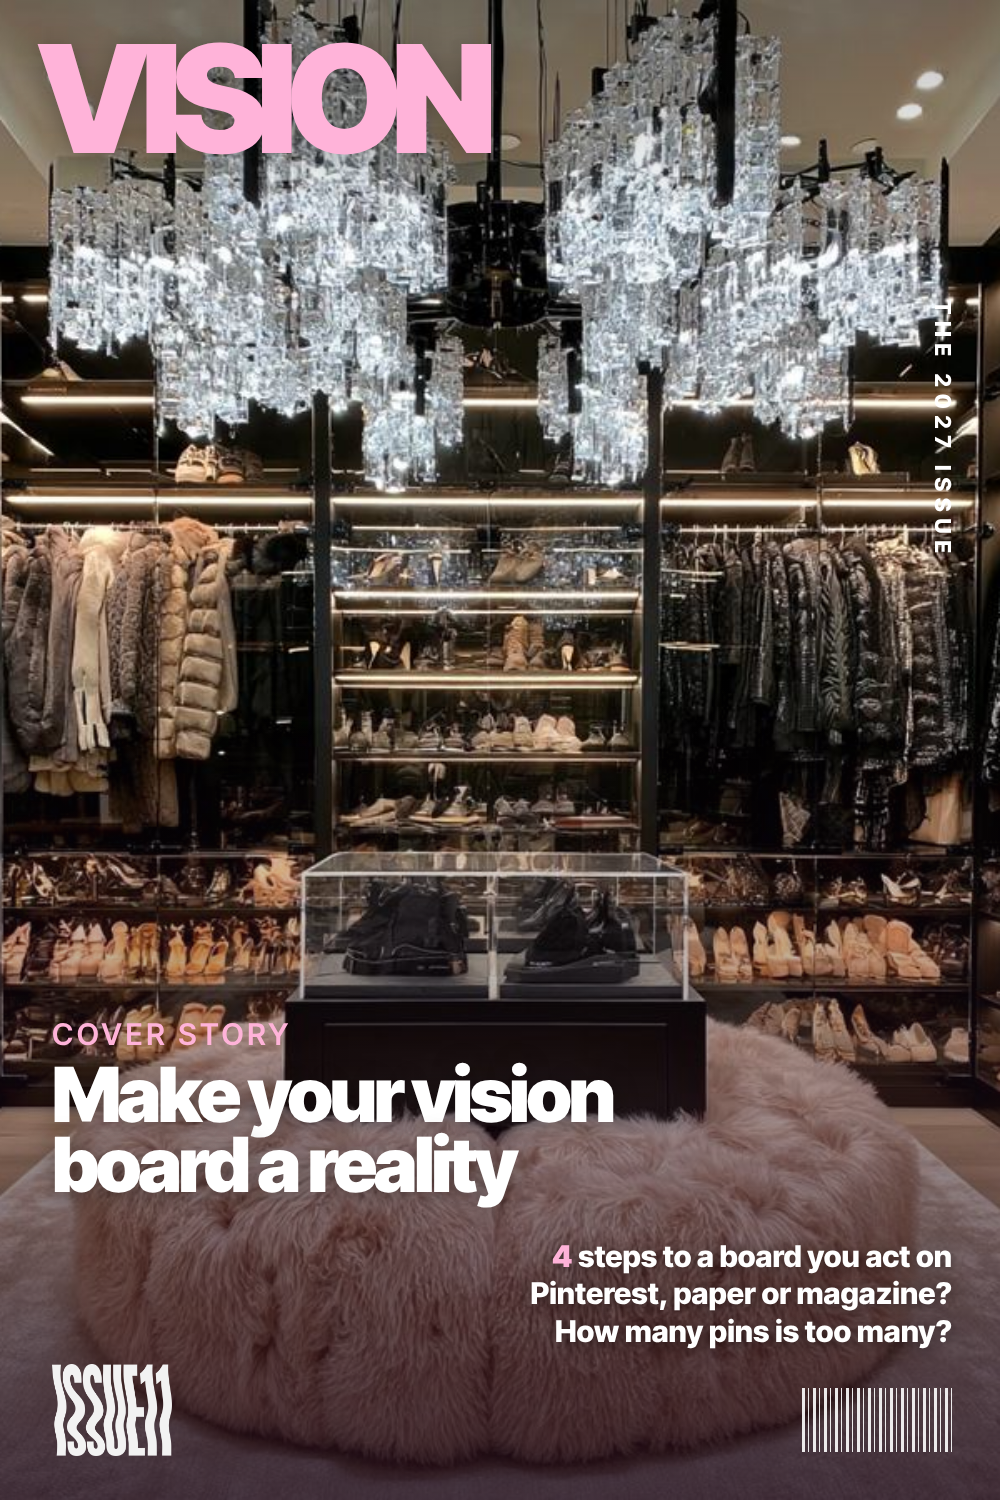
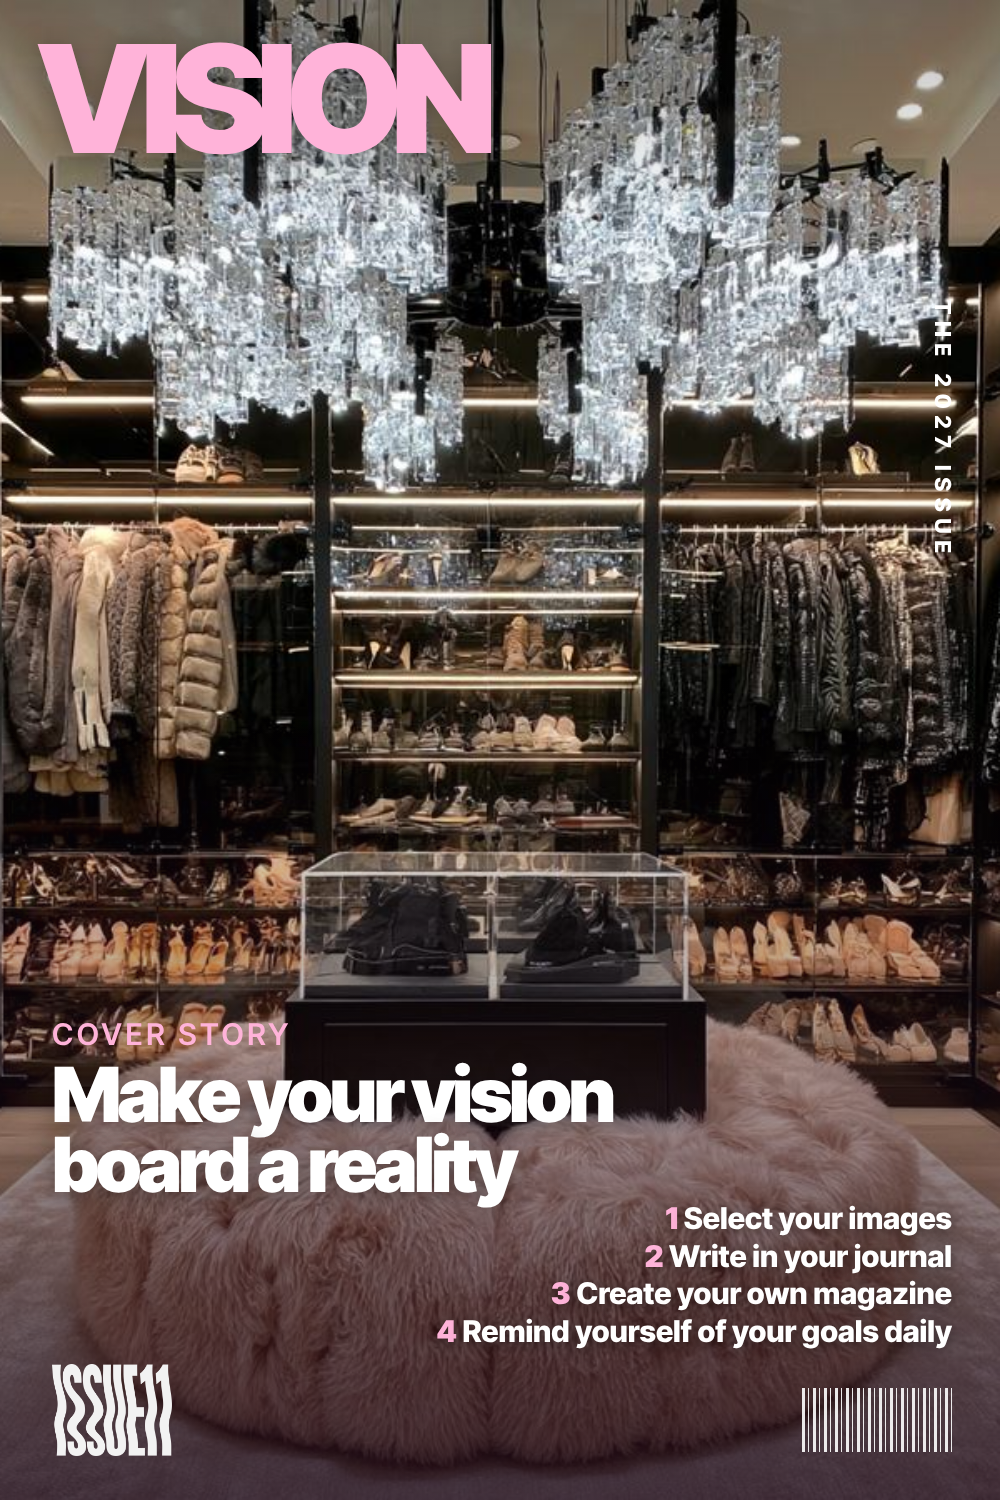
Pinterest: PV cover lines = Megan's 4 steps
Claude-Session: https://claude.ai/code/session_01YGtmQppBCBt9nypMHzxSp1

Changed region(s): [[0.434, 0.7973, 0.961, 0.92]]

diff --git a/drafts/pinterest/article-pins/ArticlePinPV.dc.html b/drafts/pinterest/article-pins/ArticlePinPV.dc.html
@@ -32,7 +32,7 @@ body{margin:0}
 <img class="bg" src="/_blob/e0b2acd5fe4e7845cf15c0a2d79a2367" style="object-position:50% 45%" alt="Editorial photo (AI-generated)"><div class="shade" style="background:linear-gradient(180deg,rgba(0,0,0,.25) 0%,rgba(0,0,0,0) 15%,rgba(0,0,0,0) 45%,rgba(30,10,25,.8) 100%)"></div>
 <div class="dg" style="color:#FFB3D9">Vision</div><div class="date">The 2027 issue</div>
 <div class="story"><i style="color:#FFB3D9">Cover story</i>Make your vision board a reality</div>
-<div class="lines"><b style="color:#FFB3D9">4</b> steps to a board you act on<br>Pinterest, paper or magazine?<br>How many pins is too many?</div>
+<div class="lines"><b style="color:#FFB3D9">1</b> Select your images<br><b style="color:#FFB3D9">2</b> Write in your journal<br><b style="color:#FFB3D9">3</b> Create your own magazine<br><b style="color:#FFB3D9">4</b> Remind yourself of your goals daily</div>
 <img class="logo w" src="/_blob/d196614efc6265e2205729134fb523b8" alt="ISSUE11"><div class="bar"></div>
 </div>
 </x-dc>

diff --git a/drafts/pinterest/article-pins/INDEX.md b/drafts/pinterest/article-pins/INDEX.md
@@ -22,7 +22,7 @@ Source boards: Claude Design Lead Magnets canvas (https://claude.ai/artifact/MZr
 | ArticlePinSO | issue11.app/blog/how-to-stop-overthinking | png/ArticlePinSO.png | How to Stop Overthinking: 9 Tips That Actually Help (+ How to Stop Overthinking at Night) | "How to stop overthinking" in a black band, the article's 9 ways as a numbered list, a colour photo of a woman in a silver jacket against blue sky, and Megan's line "My nervous system is calm" | Pass 390 + 236 (Nov 16) | ready for Framer |
 | ArticlePinMJ | issue11.app/blog/manifestation-journal-prompts | png/ArticlePinMJ.png | Manifestation Journal Prompts: Daily Prompts for Your Dream Life (That End With One Move) | "Manifestation journal prompts" with a colour photo of two women in cream coats from behind, five of the article's prompts each with its "Then" question, and Megan's line "My dream life wants me" | Pass 390 + 236 (Nov 16) | ready for Framer |
 | ArticlePinVM | issue11.app/blog/vision-board-for-manifestation | png/ArticlePinVM.png | Vision Board for Manifestation: How to Create a Vision Board You Actually Act On | "Vision board for manifestation" with a wide colour photo of a man in blue glasses and a blue jacket, the article's 6 quick takeaways as numbered boxes, and Megan's line "My life can do a 180 in just 1 year" | Pass 390 + 236 (Nov 16) | ready for Framer |
-| ArticlePinPV | issue11.app/blog/pinterest-vision-board | png/ArticlePinPV.png | Pinterest Vision Board Ideas: Turn Your Saves Into a Board You Act On | Magazine cover (Megan's approved template): "VISION" masthead over a colour photo of a dream walk-in closet with chandeliers, cover story "Make your vision board a reality" (Megan's line, Nov 16), cover lines from the article (4 steps to a board you act on · Pinterest, paper or magazine? · How many pins is too many?) | Pass 390 + 236 (Nov 16) | ready for Framer |
+| ArticlePinPV | issue11.app/blog/pinterest-vision-board | png/ArticlePinPV.png | Pinterest Vision Board Ideas: Turn Your Saves Into a Board You Act On | Magazine cover (Megan's approved template): "VISION" masthead over a colour photo of a dream walk-in closet with chandeliers, cover story "Make your vision board a reality" (Megan's line, Nov 16), cover lines = Megan's 4 steps (Nov 16): 1 Select your images · 2 Write in your journal · 3 Create your own magazine · 4 Remind yourself of your goals daily | Pass 390 + 236 (Nov 16) | ready for Framer |
 
 Keyword check for ArticlePinVBE: Pinterest autocomplete (Apify, Nov 16) suggests "vision board examples" with "inspiration", "aesthetic", "life", "career" and "manifestation" variants. Raw: `../2026-11-16-vision-board-examples-keywords.json`. No volume figure from Pinterest; Google US 11,000/mo per QUEUE.md.
 
